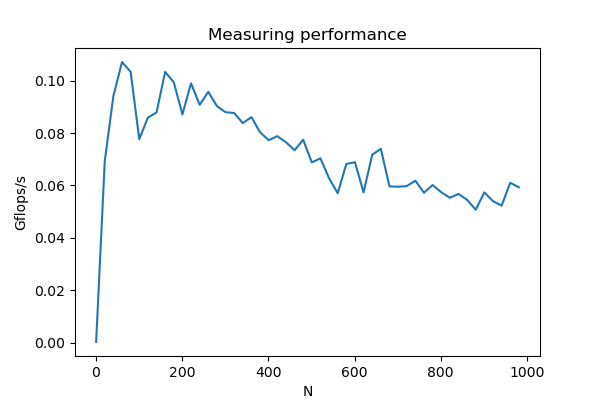
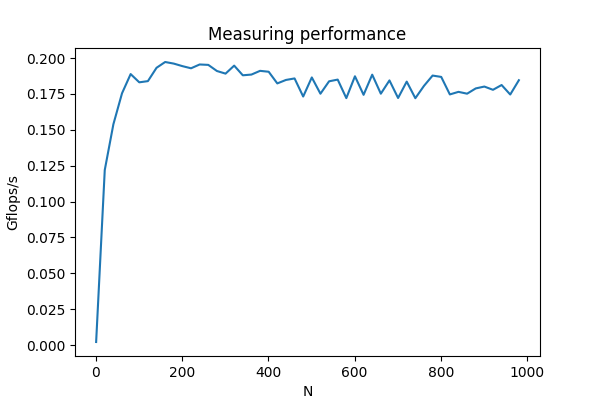
Moving Images and updating data type of flops

diff --git a/plot.py b/plot.py
@@ -6,17 +6,18 @@ import matplotlib.pyplot as plt
 def main():
 
     # Create Ns
-    N_max, N_step =  1000, 20
-    Ns = np.arange(1, N_max, N_step)
-    Gflops_s = np.zeros(int(N_max/N_step))
+    N_max, N_step =  2000, 20
+    Ns = np.arange(1, N_max+2, N_step)
+
+    Gflops_s = np.zeros(int(N_max/N_step)+1)
 
     # Iterate over Ns
     for N in Ns:
-        print("Iteration", int(N/N_step), "out of", int(N_max/N_step))
-        output  = subprocess.getoutput("g++ -o Part1.exe Part1.cpp")
-        output2 = subprocess.getoutput("./Part1.exe " + str(N))
-        match = re.search(r'Gflops/s:\s+(\d+(\.\d+)?)', output2)
+        #out  = subprocess.getoutput("g++ -o Part1.exe Part1.cpp")
+        output = subprocess.getoutput("./Part1.exe " + str(N))
+        match = re.search(r'Gflops/s:\s+(\d+(\.\d+)?)', output)
         Gflops_s[int(N/N_step)] = match.group(1)
+        print("Finished Iteration", int(N/N_step), "out of", int(N_max/N_step), "with result", match.group(1))
 
     # Plot values 
     fig, ax = plt.subplots(figsize =(6, 4))

diff --git a/Part1.cpp b/Part1.cpp
@@ -43,7 +43,7 @@ Matrix generateRandomMatrix(int N) {
 }
 
 //Function to multiply matricies together 
-Matrix multiplyMatrices(const Matrix A, const Matrix B, int &flops) {  
+Matrix multiplyMatrices(const Matrix A, const Matrix B, long int &flops) {  
 
     // Pull sizes of arrays from matricies 
     int rowsA = A.size();
@@ -104,7 +104,7 @@ int main(int argc, char *argv[]) {
 
     // Define start and end time and flops to calculate the number of flops per second. 
     double startTime, endTime;
-    int flops = 0;
+    long int flops = 0;
 
     // Multiply Matricies together 
     get_walltime(&startTime);

diff --git a/Project1.md b/Project1.md
@@ -120,7 +120,7 @@ ERT_GNUPLOT gnuplot
 
 and thus we get the following roofline plot
 
-![roofline](./roofline.jpg)
+![roofline](./figures/roofline.jpg)
 
 Where the bandwidth should be
 * L1: 113.5GB/s
@@ -135,10 +135,10 @@ The ridge point is marked in the plot
 
 The arithmetic intensity for each kernel should be
 
-![](./stat.png)
+![](./figures/stat.png)
 
 So, the performance will be 
-![](./roofline2.jpg)
+![](./figures/roofline2.jpg)
 
 Which means SpMV is bandwidth-bound, and the rest of three are computation bound, and will run at peak performance.
 
@@ -152,5 +152,5 @@ To optimize:
 
 For these four kernels, all bandwidth-bounded, need to optimize locality.
 
-![](./roofline3.jpg)
+![](./figures/roofline3.jpg)
 
